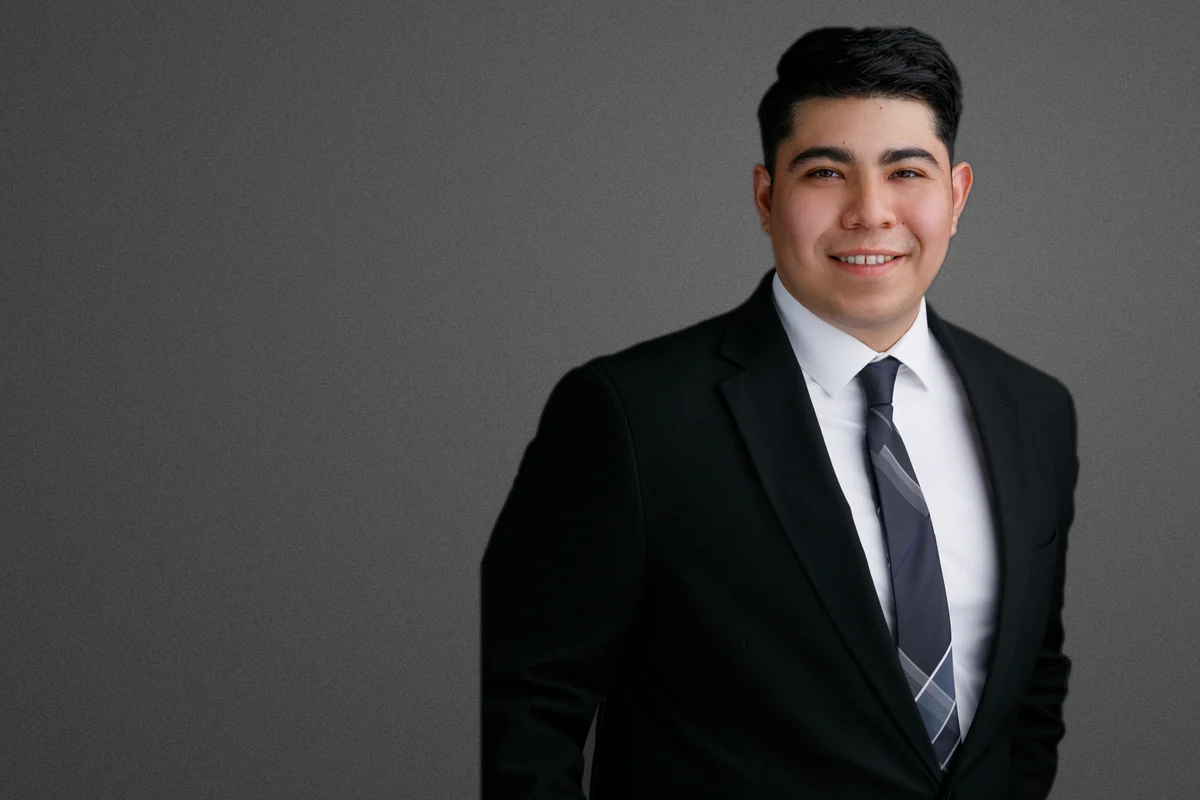
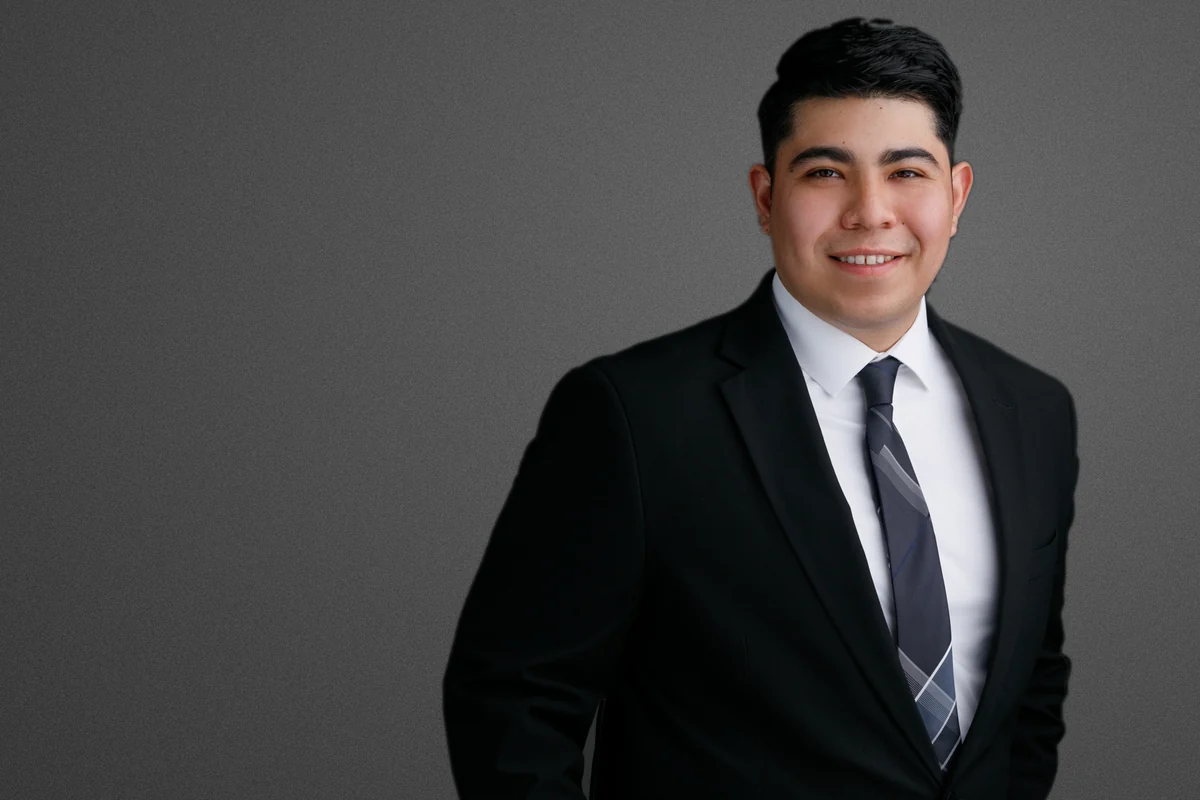
V6: restore Brandon's full arm in the cut-out; hero fade starts where the text column ends

Changed region(s): [[0.37, 0.7188, 0.4008, 1.0], [0.6783, 0.0, 0.74, 0.0625], [0.6167, 0.2188, 0.6475, 0.25]]

diff --git a/2026-11-11-brandon-cpa-v6/styles.css b/2026-11-11-brandon-cpa-v6/styles.css
@@ -529,12 +529,12 @@ html.intro-on .hero,html.intro-on .hero *{animation-play-state:paused!important}
 .hero-photo::after{display:block;background:linear-gradient(0deg,#fff 0%,rgba(255,255,255,.55) 7%,rgba(255,255,255,0) 20%)}
 @media (min-width:960px){
   /* one long gradient: white at the far left easing into his grey backdrop */
-  .hero{background:linear-gradient(90deg,#fff 0%,#F7F7F7 22%,#E6E6E6 38%,#BDBDBD 52%,#8A8A8A 64%)}
-  .hero-photo{width:58%;background:transparent;-webkit-mask-image:linear-gradient(90deg,transparent 0%,rgba(0,0,0,.25) 18%,rgba(0,0,0,.7) 34%,#000 50%);mask-image:linear-gradient(90deg,transparent 0%,rgba(0,0,0,.25) 18%,rgba(0,0,0,.7) 34%,#000 50%)}
+  .hero{background:#fff}
+  /* white behind the text; the grey fades in from where the text column ends */
+  .hero-photo{left:min(calc(max(0px, (100vw - 1320px) / 2) + 2.5rem + 640px), 55%);right:0;width:auto;background:transparent;-webkit-mask-image:linear-gradient(90deg,transparent 0%,rgba(0,0,0,.35) 10%,rgba(0,0,0,.8) 22%,#000 32%);mask-image:linear-gradient(90deg,transparent 0%,rgba(0,0,0,.35) 10%,rgba(0,0,0,.8) 22%,#000 32%)}
   .hero-photo::after{display:none}
   .hero h1{font-size:clamp(3rem,4.4vw,3.9rem)}
 }
-@media (min-width:1500px){.hero-photo{width:auto;left:40%}}
 .trust{border-top:1px solid var(--fa-rule)}
 /* Section rhythm below How It Works: white, warm grey and black bands alternate */
 .trust,.services,.contact{background:#EFEDE8}
